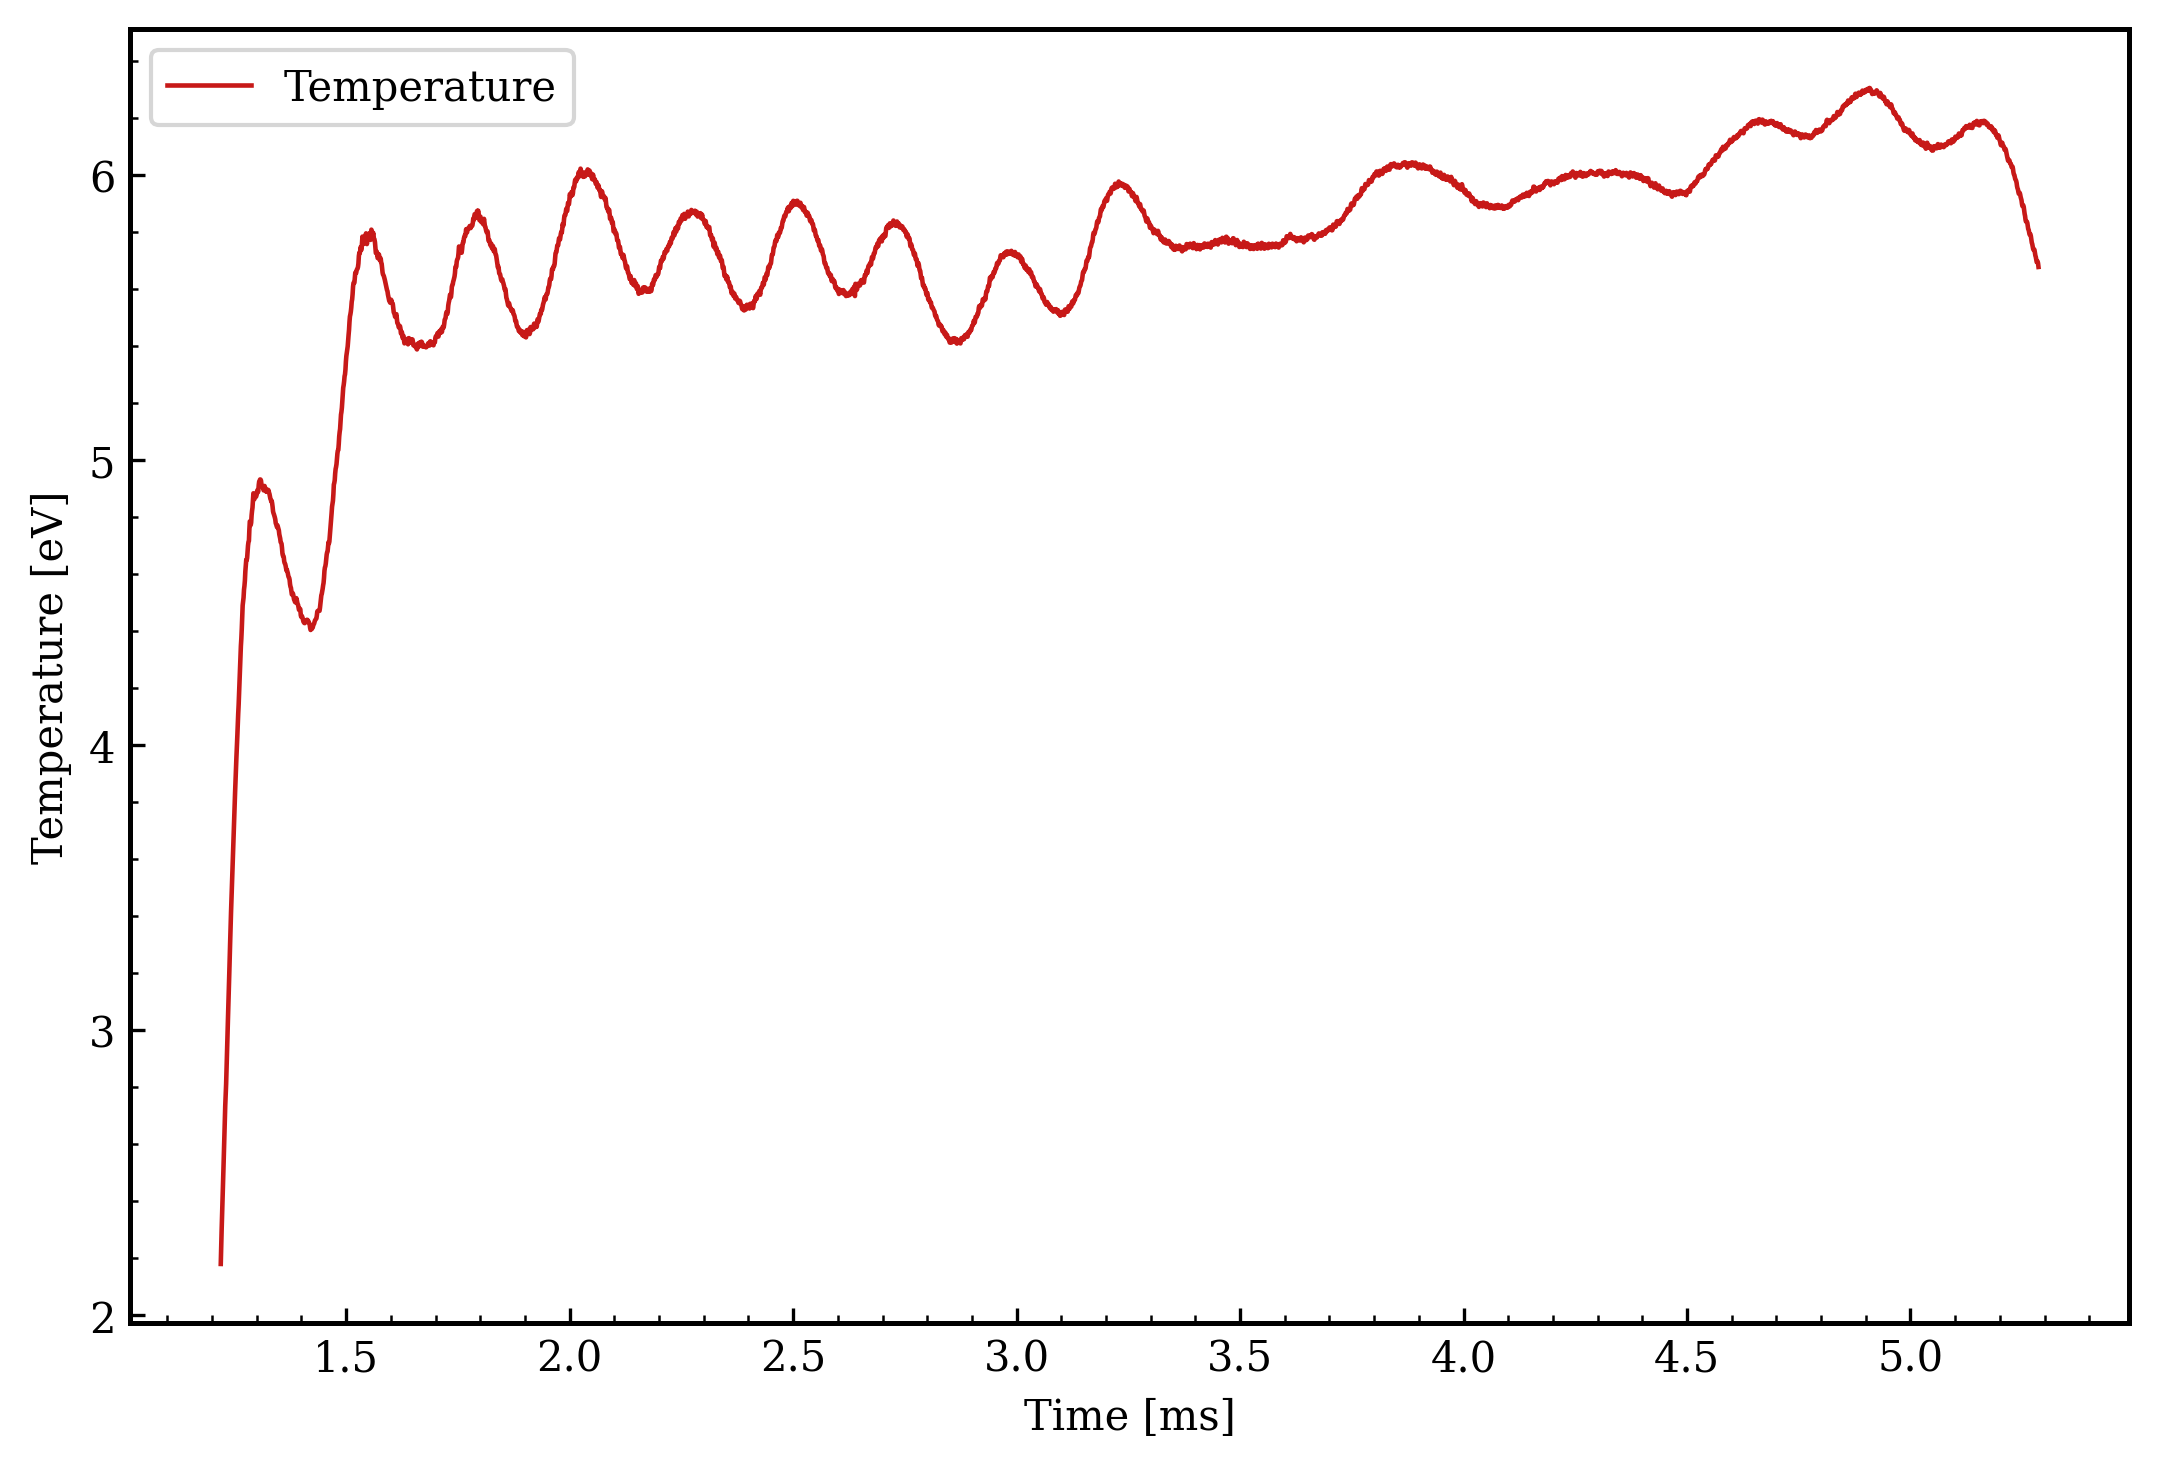
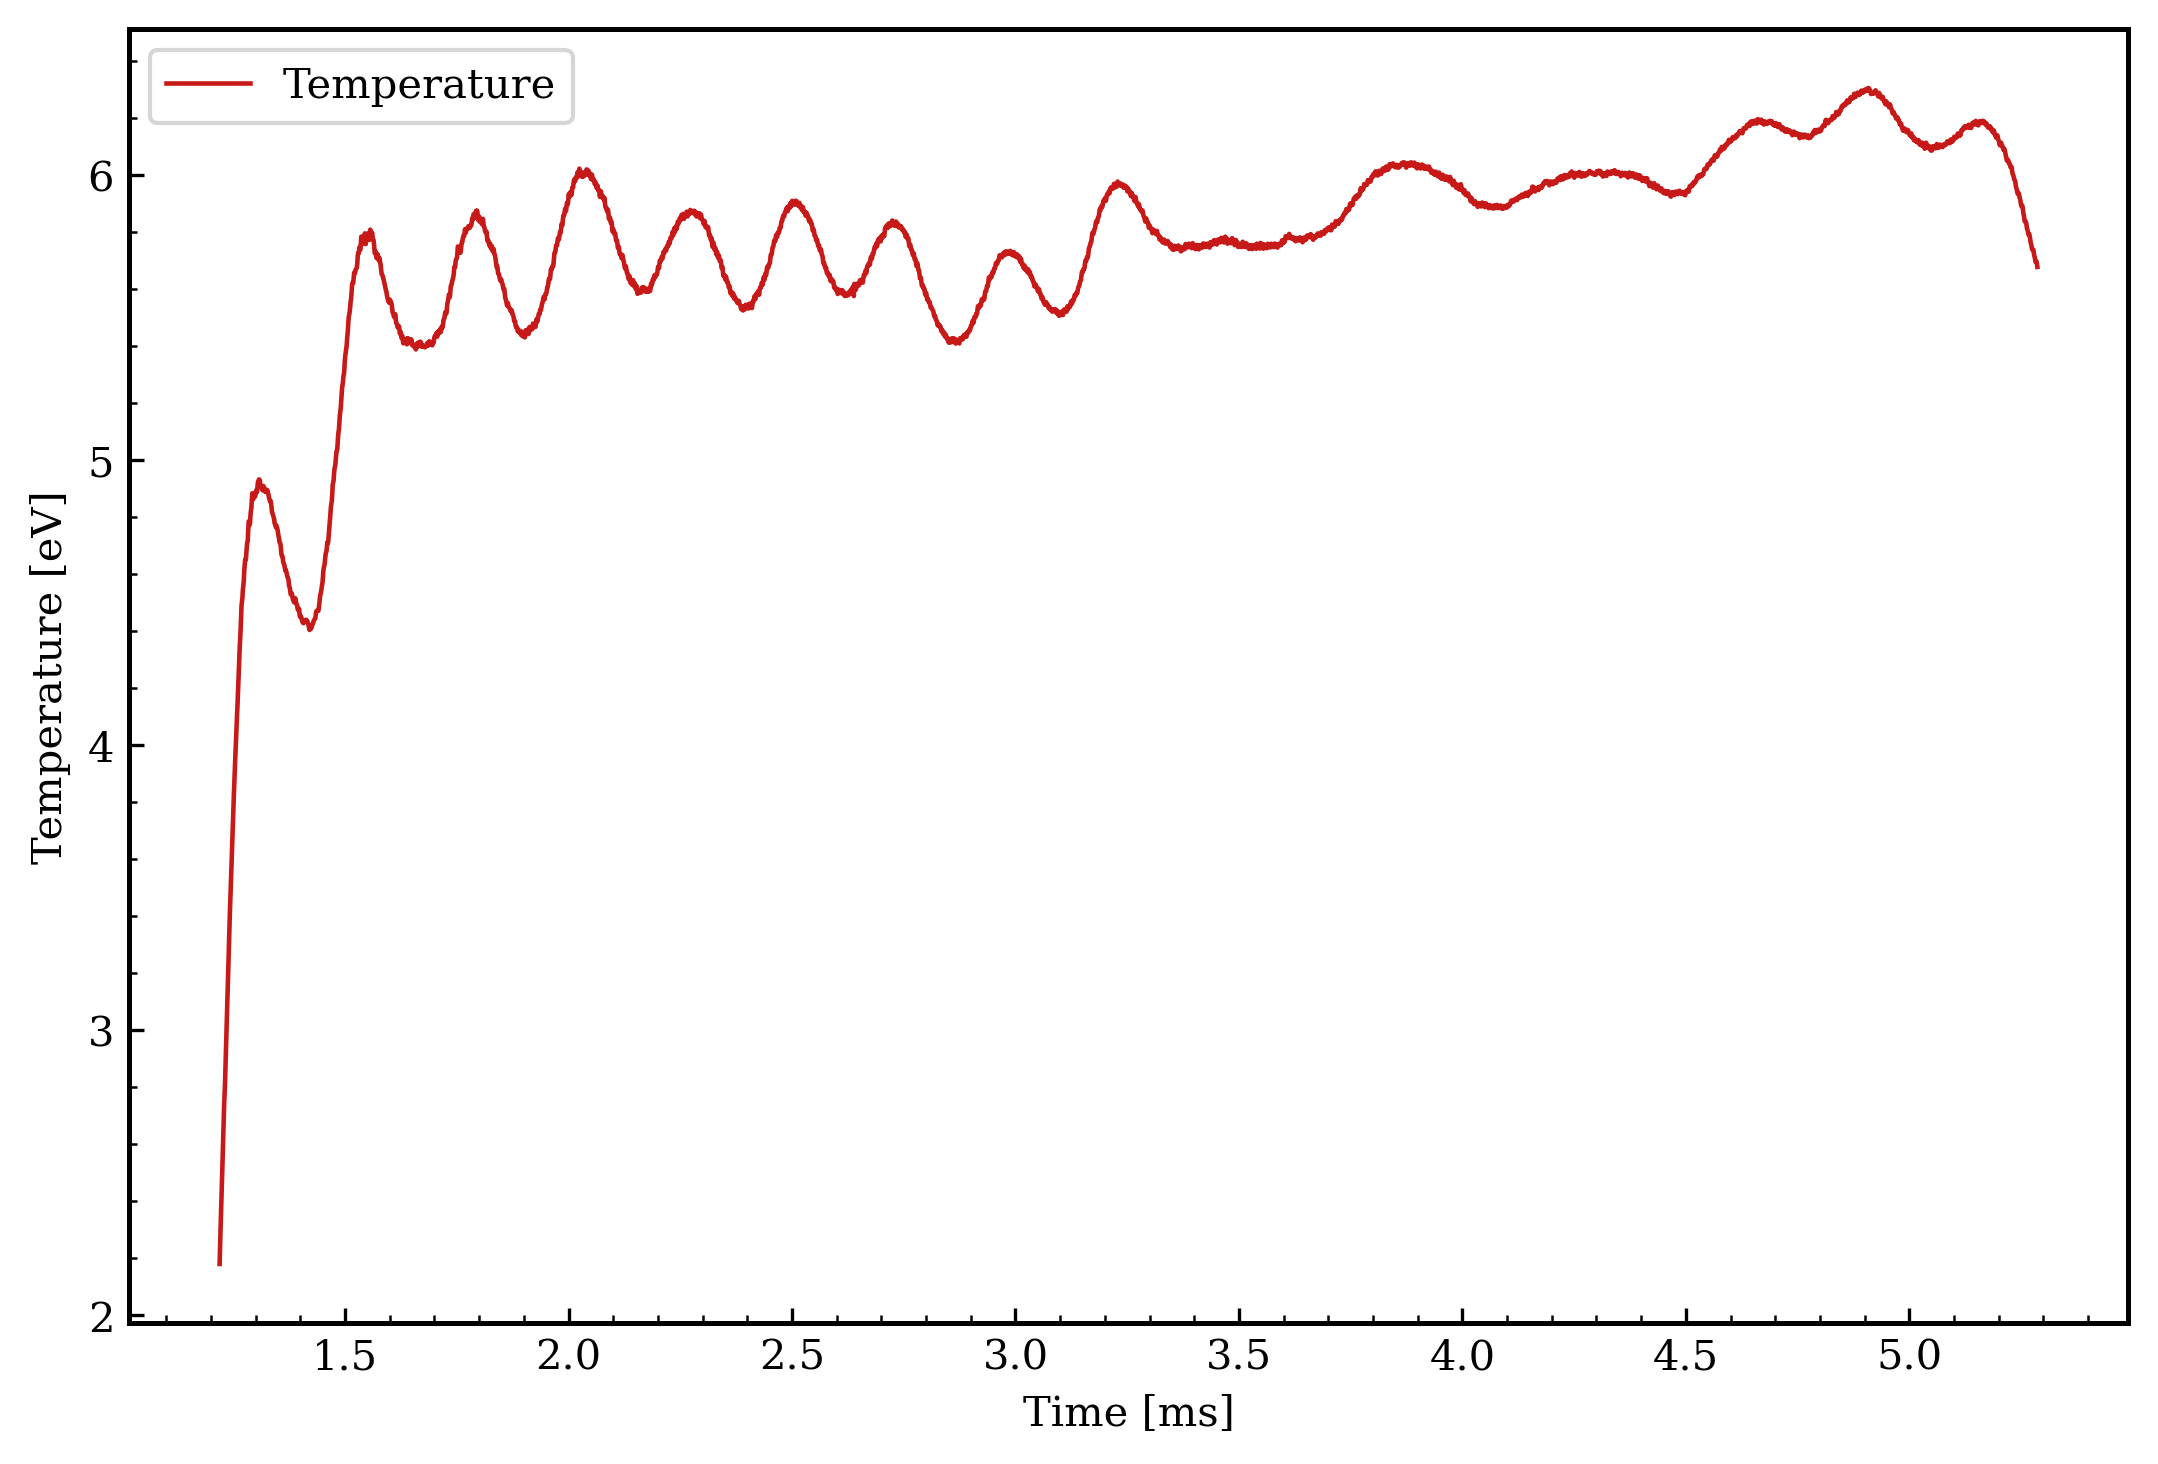
better temperature from spitzer resistivity

diff --git a/calc-time-confi.py b/calc-time-confi.py
@@ -60,7 +60,15 @@ def calc_timeconf(shot_dir, out_dir="time_results"):
     quick_plot(DO_PLOTS,time, Uloop, "U Loop", ylabel="U [V]", out_path=f"{out_dir}/Uloop.png")
 
     # 4. Calculating temperatuur
-    Te = 0.9 * Rp ** (-2/3)
+    #Te = 0.9 * Rp ** (-2/3)
+    A = np.pi * MINOR_RADIUS**2
+    L = 2 * np.pi * MAJOR_RADIUS
+    lnLambda = 10 # not sure, vgm is dat voor iter
+    Z = 2 # place holder value
+    eta = Rp * A / L
+
+    Te_K = (4 * np.sqrt(2 * np.pi)* Z* const.e**2* np.sqrt(const.m_e)* lnLambda 
+    / ( 3*(4 * np.pi * const.epsilon_0)**2* eta* const.k**1.5))**(2/3)
     quick_plot(DO_PLOTS,time, Te, "Temperature", ylabel="Temperature [eV]", out_path=f"{out_dir}/T.png")
     gprint(f"Average/Mean plasma temperatue {round(np.average(Te),2)}/{round(np.mean(Te),2)} [eV]\n")
 

diff --git a/README.md b/README.md
@@ -1,6 +1,6 @@
 
 
-    TODO LIST : (TESSSA asgiend) 
+    TODO LIST :
 
 
 1. Oke hier moet eerst worden gececked ofda dIdpt uberhaupt beschickbaar was
